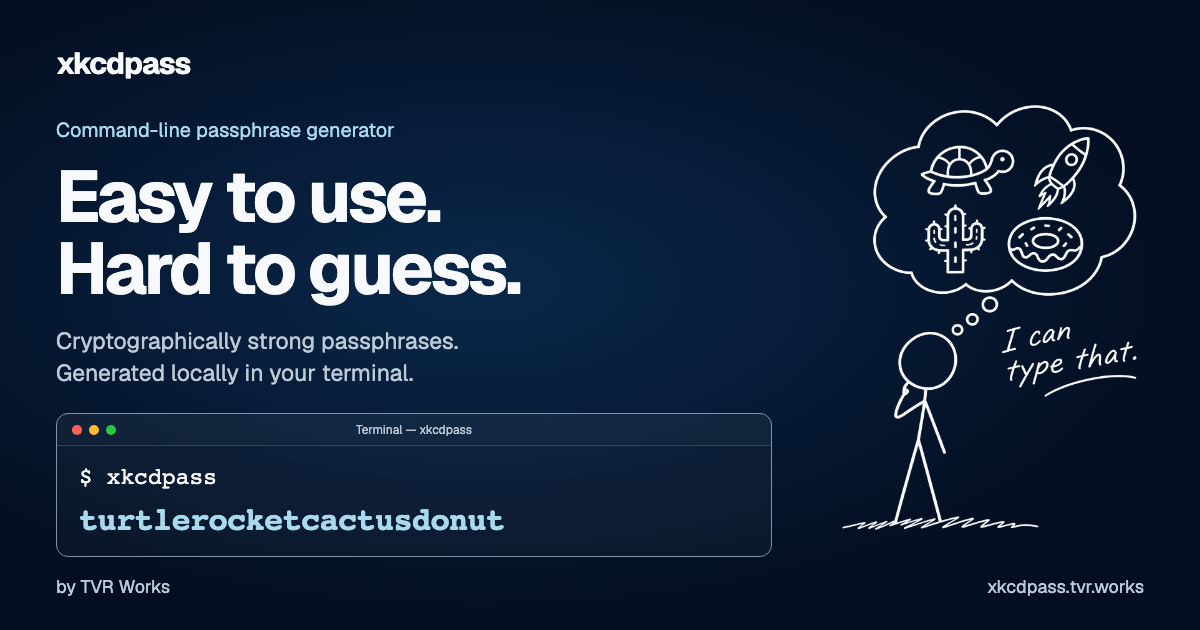
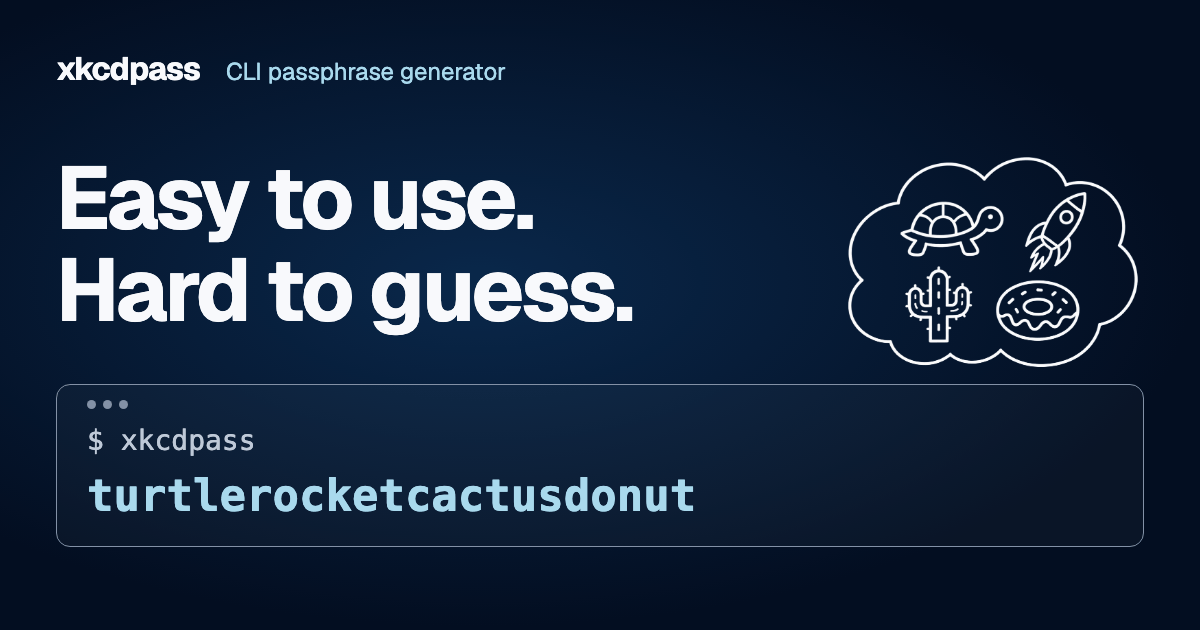
Simplify the social card for quick scanning

diff --git a/assets/social-card.html b/assets/social-card.html
@@ -17,134 +17,105 @@
         width: 1200px;
         height: 630px;
         margin: 0;
-        padding: 44px 56px;
+        padding: 48px 56px;
         overflow: hidden;
         background: radial-gradient(ellipse at 40% 45%, #0a284b, transparent 70%), #030e21;
         color: #f8f9fc;
         font-family: Geist, sans-serif;
       }
+      header {
+        display: flex;
+        align-items: baseline;
+        gap: 26px;
+      }
       .brand {
         margin: 0;
-        font-size: 30px;
+        font-size: 32px;
         font-weight: 700;
         letter-spacing: -1px;
       }
-      .eyebrow {
-        margin: 34px 0 18px;
+      .descriptor {
+        margin: 0;
         color: #a9d9ed;
-        font-size: 20px;
+        font-size: 24px;
       }
       h1 {
-        margin: 0;
-        font-size: 72px;
-        line-height: 1;
+        margin: 64px 0 48px;
+        font-size: 88px;
+        line-height: 1.04;
         font-weight: 700;
         letter-spacing: -3px;
       }
-      .description {
-        margin: 20px 0 24px;
-        color: #bec9d8;
-        font-size: 23px;
-        line-height: 1.4;
-      }
       .terminal {
-        width: 716px;
-        border: 1px solid #8391a6;
-        border-radius: 12px;
-        background: #ffffff08;
-        overflow: hidden;
-      }
-      .titlebar {
         position: relative;
-        height: 32px;
-        border-bottom: 1px solid #8391a64d;
-        background: #ffffff05;
-        color: #bec9d8;
-        text-align: center;
-        font-size: 12px;
-        line-height: 32px;
+        padding: 38px 30px 24px;
+        border: 1px solid #8391a6;
+        border-radius: 14px;
+        background: #ffffff08;
       }
       .controls {
         position: absolute;
-        top: 11px;
-        left: 15px;
+        top: 15px;
+        left: 30px;
         display: flex;
         gap: 7px;
       }
       .controls i {
-        width: 10px;
-        height: 10px;
+        width: 9px;
+        height: 9px;
         border-radius: 50%;
-        background: #ff6058;
-      }
-      .controls i:nth-child(2) {
-        background: #ffbd2e;
-      }
-      .controls i:nth-child(3) {
-        background: #28c840;
-      }
-      .terminal-body {
-        padding: 16px 22px 18px;
+        background: #8391a6;
       }
       pre {
         margin: 0;
-        font-family: 'SFMono-Regular', Consolas, 'Liberation Mono', monospace;
+        font-family: ui-monospace, 'SFMono-Regular', Menlo, Consolas, monospace;
       }
       .command {
-        font-size: 23px;
-        line-height: 30px;
+        color: #bec9d8;
+        font-size: 28px;
+        line-height: 36px;
       }
       .output {
         margin-top: 10px;
         color: #a9d9ed;
-        font-size: 32px;
+        font-size: 44px;
         font-weight: 600;
-        letter-spacing: -0.7px;
-        line-height: 36px;
+        line-height: 53px;
       }
-      .illustration {
+      .thought {
         position: absolute;
-        top: 105px;
-        right: 58px;
-        width: 300px;
+        top: 157px;
+        right: 56px;
+        width: 330px;
+        height: 210px;
+        overflow: hidden;
+      }
+      .thought img {
+        display: block;
+        width: 330px;
         height: auto;
         filter: invert(1);
-      }
-      footer {
-        position: absolute;
-        right: 56px;
-        bottom: 32px;
-        left: 56px;
-        display: flex;
-        justify-content: space-between;
-        color: #bec9d8;
-        font-size: 18px;
       }
     </style>
   </head>
   <body>
-    <p class="brand">xkcdpass</p>
-    <p class="eyebrow">Command-line passphrase generator</p>
+    <header>
+      <p class="brand">xkcdpass</p>
+      <p class="descriptor">CLI passphrase generator</p>
+    </header>
     <h1>Easy to use.<br />Hard to guess.</h1>
-    <p class="description">
-      Cryptographically strong passphrases.<br />Generated locally in your terminal.
-    </p>
     <div class="terminal">
-      <div class="titlebar">
-        <span class="controls"><i></i><i></i><i></i></span>Terminal — xkcdpass
-      </div>
-      <div class="terminal-body">
-        <pre class="command">$ xkcdpass</pre>
-        <pre class="output">turtlerocketcactusdonut</pre>
-      </div>
+      <span class="controls"><i></i><i></i><i></i></span>
+      <pre class="command">$ xkcdpass</pre>
+      <pre class="output">turtlerocketcactusdonut</pre>
     </div>
-    <img
-      class="illustration"
-      src="../public/assets/passphrase-thought.webp"
-      width="962"
-      height="1363"
-      alt="A stick figure imagines a turtle, rocket, cactus, and donut."
-    />
-    <footer><span>by TVR Works</span><span>xkcdpass.tvr.works</span></footer>
+    <div class="thought">
+      <img
+        src="../public/assets/passphrase-thought.webp"
+        width="962"
+        height="1363"
+        alt="A thought bubble containing a turtle, rocket, cactus, and donut."
+      />
+    </div>
   </body>
 </html>

diff --git a/index.html b/index.html
@@ -25,7 +25,7 @@
     <meta property="og:image:height" content="630" />
     <meta
       property="og:image:alt"
-      content="xkcdpass: Easy to use. Hard to guess. A terminal generates turtlerocketcactusdonut beside a stick figure imagining those four words."
+      content="xkcdpass: Easy to use. Hard to guess. A terminal generates turtlerocketcactusdonut beside a thought bubble showing a turtle, rocket, cactus, and donut."
     />
     <meta name="twitter:card" content="summary_large_image" />
     <meta name="twitter:title" content="xkcdpass | Easy to use. Hard to guess." />
@@ -36,7 +36,7 @@
     <meta name="twitter:image" content="https://xkcdpass.tvr.works/assets/xkcdpass-social.png" />
     <meta
       name="twitter:image:alt"
-      content="xkcdpass: Easy to use. Hard to guess. A terminal generates turtlerocketcactusdonut beside a stick figure imagining those four words."
+      content="xkcdpass: Easy to use. Hard to guess. A terminal generates turtlerocketcactusdonut beside a thought bubble showing a turtle, rocket, cactus, and donut."
     />
     <script type="application/ld+json">
       {
